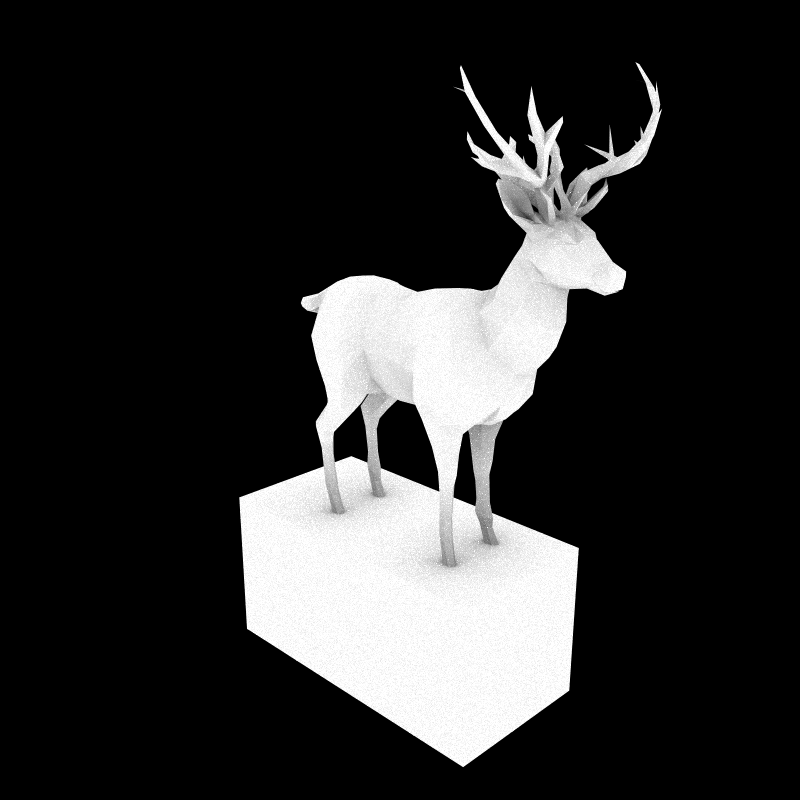
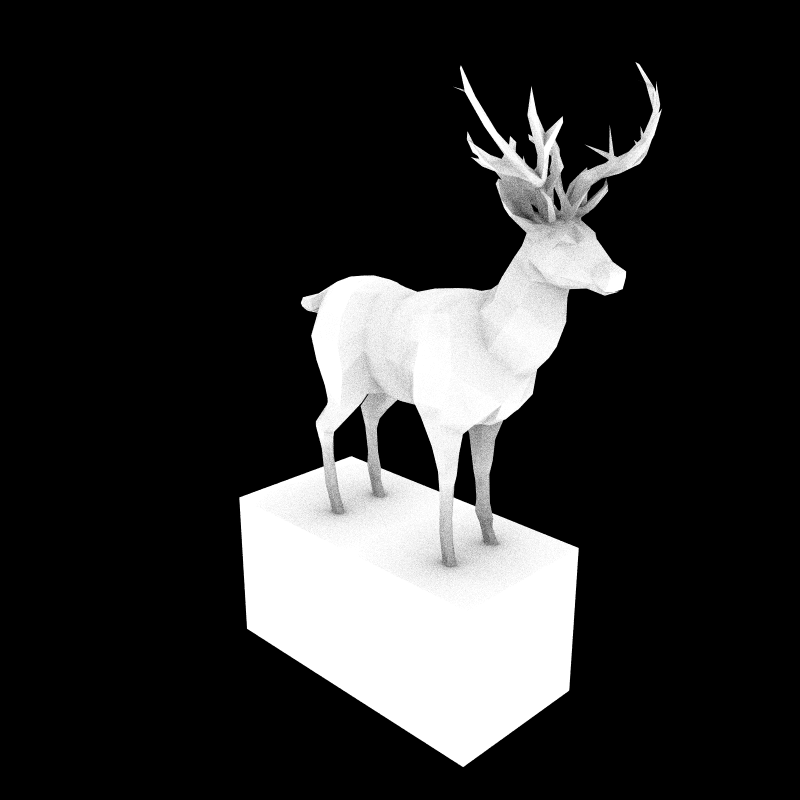
Clean up and update code

diff --git a/src/integrators/ao_integrator.rs b/src/integrators/ao_integrator.rs
@@ -1,8 +1,8 @@
 use nalgebra::{Point2, Point3, Vector3};
 use ncollide3d::{
+    pipeline::object::CollisionGroups,
     query::{Ray, RayIntersection},
     shape::FeatureId,
-    world::{CollisionGroups, CollisionWorld},
 };
 use rand::Rng;
 use std::f32;
@@ -28,28 +28,30 @@ impl AOIntegrator {
             RayIntersection::new(0.0, Vector3::new(0.0, 0.0, 0.0), FeatureId::Unknown);
         let mut min_data = &ObjectData::default();
         let mut found_intersection = false;
-        for intersection in scene
-            .collision_world
-            .interferences_with_ray(&ray, &CollisionGroups::new())
+        for intersection in
+            scene
+                .collision_world
+                .interferences_with_ray(&ray, f32::MAX, &CollisionGroups::new())
         {
             found_intersection = true;
-            if intersection.1.toi < min_toi {
-                let normal = intersection.1.normal;
+            if intersection.2.toi < min_toi {
+                let normal = intersection.2.normal;
                 sample_value = Point3::new(
-                    (125.0 + (normal[0] * 125.0)),
-                    (125.0 + (normal[1] * 125.0)),
-                    (125.0 + (normal[2] * 125.0)),
+                    125.0 + (normal[0] * 125.0),
+                    125.0 + (normal[1] * 125.0),
+                    125.0 + (normal[2] * 125.0),
                 );
-                min_toi = intersection.1.toi;
-                min_intersection = intersection.1;
-                min_data = intersection.0.data();
+                min_toi = intersection.2.toi;
+                min_intersection = intersection.2;
+                min_data = intersection.1.data();
             }
         }
         if !found_intersection {
             return Point3::new(0.0, 0.0, 0.0);
         }
 
-        let sampler = CosineWeightedHemisphereSampler;
+        //let sampler = CosineWeightedHemisphereSampler;
+        let sampler = HemisphereSampler;
         let ray_samples = Point2::new(rng.gen_range(0.0, 1.0), rng.gen_range(0.0, 1.0));
         let new_ray_origin = ray.point_at(min_intersection.toi - 0.001);
         let (new_ray_direction, new_ray_probability) =
@@ -57,12 +59,13 @@ impl AOIntegrator {
         let new_ray = Ray::new(new_ray_origin, new_ray_direction);
 
         let mut min_toi = f32::MAX;
-        for intersection in scene
-            .collision_world
-            .interferences_with_ray(&new_ray, &CollisionGroups::new())
+        for intersection in
+            scene
+                .collision_world
+                .interferences_with_ray(&new_ray, 1.0f32, &CollisionGroups::new())
         {
-            if intersection.1.toi < min_toi {
-                min_toi = intersection.1.toi;
+            if intersection.2.toi < min_toi {
+                min_toi = intersection.2.toi;
             }
         }
         if min_toi < self.range {

diff --git a/src/camera.rs b/src/camera.rs
@@ -1,19 +1,13 @@
-use image::{ImageBuffer, Rgb, RgbImage};
-use nalgebra::{Point2, Point3, Vector2, Vector3};
-use ncollide3d::{
-    math::Isometry,
-    query::Ray,
-    world::{CollisionGroups, CollisionWorld},
-};
-use rand::{prelude::*, rngs::SmallRng, thread_rng, Rng};
+use image::RgbImage;
+use nalgebra::{Point2, Point3, Vector2};
+use ncollide3d::{math::Isometry, query::Ray};
+use rand::{prelude::*, thread_rng, Rng};
 use rayon::{iter::ParallelIterator, prelude::*};
 
 use std::f32;
-use std::sync::{Arc, Mutex};
 use std::time::Instant;
 
 use crate::integrators::AOIntegrator;
-use crate::object::ObjectData;
 use crate::sampler::UniformSampler2;
 use crate::scene::Scene;
 
@@ -93,7 +87,7 @@ impl Camera {
                 row.resize(self.resolution[1], Point3::new(0.0, 0.0, 0.0));
                 for y in 0..self.resolution[1] {
                     for s in 0..n_samples {
-                        let x_coord = (x as f32 - self.resolution[0] as f32 / 2.0);
+                        let x_coord = x as f32 - self.resolution[0] as f32 / 2.0;
                         let y_coord = -(y as f32 - self.resolution[1] as f32 / 2.0);
                         let pixel_samples =
                             Point2::new(rng.gen_range(0.0, 1.0), rng.gen_range(0.0, 1.0));
@@ -134,6 +128,6 @@ impl Camera {
             end_time.as_millis() as f32 / 1000.0
         );
 
-        Vec::new()
+        samples
     }
 }

diff --git a/src/scene.rs b/src/scene.rs
@@ -1,17 +1,20 @@
-use nalgebra::{Point3, Vector3};
+use nalgebra::{Point3, Unit, Vector2, Vector3};
 use ncollide3d::{
     math::Isometry,
+    pipeline::object::{CollisionGroups, GeometricQueryType},
     shape::{Cuboid, ShapeHandle, TriMesh},
-    world::{CollisionGroups, CollisionWorld, GeometricQueryType},
+    world::CollisionWorld,
 };
 use obj::{Obj, SimplePolygon};
 
 use std::path::Path;
 
+use crate::camera::{Camera, CameraBuilder};
 use crate::object::ObjectData;
 use crate::shaders::lambert::LambertBSDF;
 
 pub struct Scene {
+    pub camera: Camera,
     pub collision_world: CollisionWorld<f32, ObjectData>,
 }
 
@@ -67,7 +70,20 @@ impl Scene {
         world.perform_narrow_phase();
 
         Scene {
+            camera: CameraBuilder::new()
+                .position(Isometry::face_towards(
+                    &Point3::new(4.0, -4.0, 1.5),
+                    &Point3::new(0.0, 0.0, -0.5),
+                    &Vector3::new(0.0, 0.0, 1.0),
+                ))
+                .screen_dimensions(Vector2::new(0.8, 0.8))
+                .resolution(Vector2::new(800, 800))
+                .build(),
             collision_world: world,
         }
+    }
+
+    pub fn capture(&self, n_samples: u32) -> Vec<Vec<Point3<f32>>> {
+        self.camera.compute_samples(&self, n_samples)
     }
 }

diff --git a/src/integrators/normal_integrator.rs b/src/integrators/normal_integrator.rs
@@ -1,8 +1,5 @@
 use nalgebra::Point3;
-use ncollide3d::{
-    query::Ray,
-    world::{CollisionGroups, CollisionWorld},
-};
+use ncollide3d::{pipeline::object::CollisionGroups, query::Ray, world::CollisionWorld};
 use rand::Rng;
 use std::f32;
 
@@ -17,15 +14,15 @@ impl NormalIntegrator {
     ) -> Point3<f32> {
         let mut min_toi = f32::MAX;
         let mut sample_value = Point3::new(0.0, 0.0, 0.0);
-        for intersection in world.interferences_with_ray(&ray, &CollisionGroups::new()) {
-            if intersection.1.toi < min_toi {
-                let normal = intersection.1.normal;
+        for intersection in world.interferences_with_ray(&ray, f32::MAX, &CollisionGroups::new()) {
+            if intersection.2.toi < min_toi {
+                let normal = intersection.2.normal;
                 sample_value = Point3::new(
                     (125.0 + (normal[0] * 125.0)),
                     (125.0 + (normal[1] * 125.0)),
                     (125.0 + (normal[2] * 125.0)),
                 );
-                min_toi = intersection.1.toi;
+                min_toi = intersection.2.toi;
             }
         }
         sample_value

diff --git a/src/main.rs b/src/main.rs
@@ -6,25 +6,9 @@ mod sampler;
 mod scene;
 mod shaders;
 
-use std::path::Path;
-use std::sync::Arc;
-
-use nalgebra::{Point3, Unit, Vector2, Vector3};
-use ncollide3d::math::Isometry;
-
-use crate::camera::{Camera, CameraBuilder};
 use crate::scene::Scene;
 
 fn main() {
     let scene = Scene::new();
-    let camera = CameraBuilder::new()
-        .position(Isometry::face_towards(
-            &Point3::new(4.0, -4.0, 1.5),
-            &Point3::new(0.0, 0.0, -0.5),
-            &Vector3::new(0.0, 0.0, 1.0),
-        ))
-        .screen_dimensions(Vector2::new(0.8, 0.8))
-        .resolution(Vector2::new(800, 800))
-        .build();
-    camera.compute_samples(&scene, 100000);
+    let samples = scene.capture(100u32);
 }
